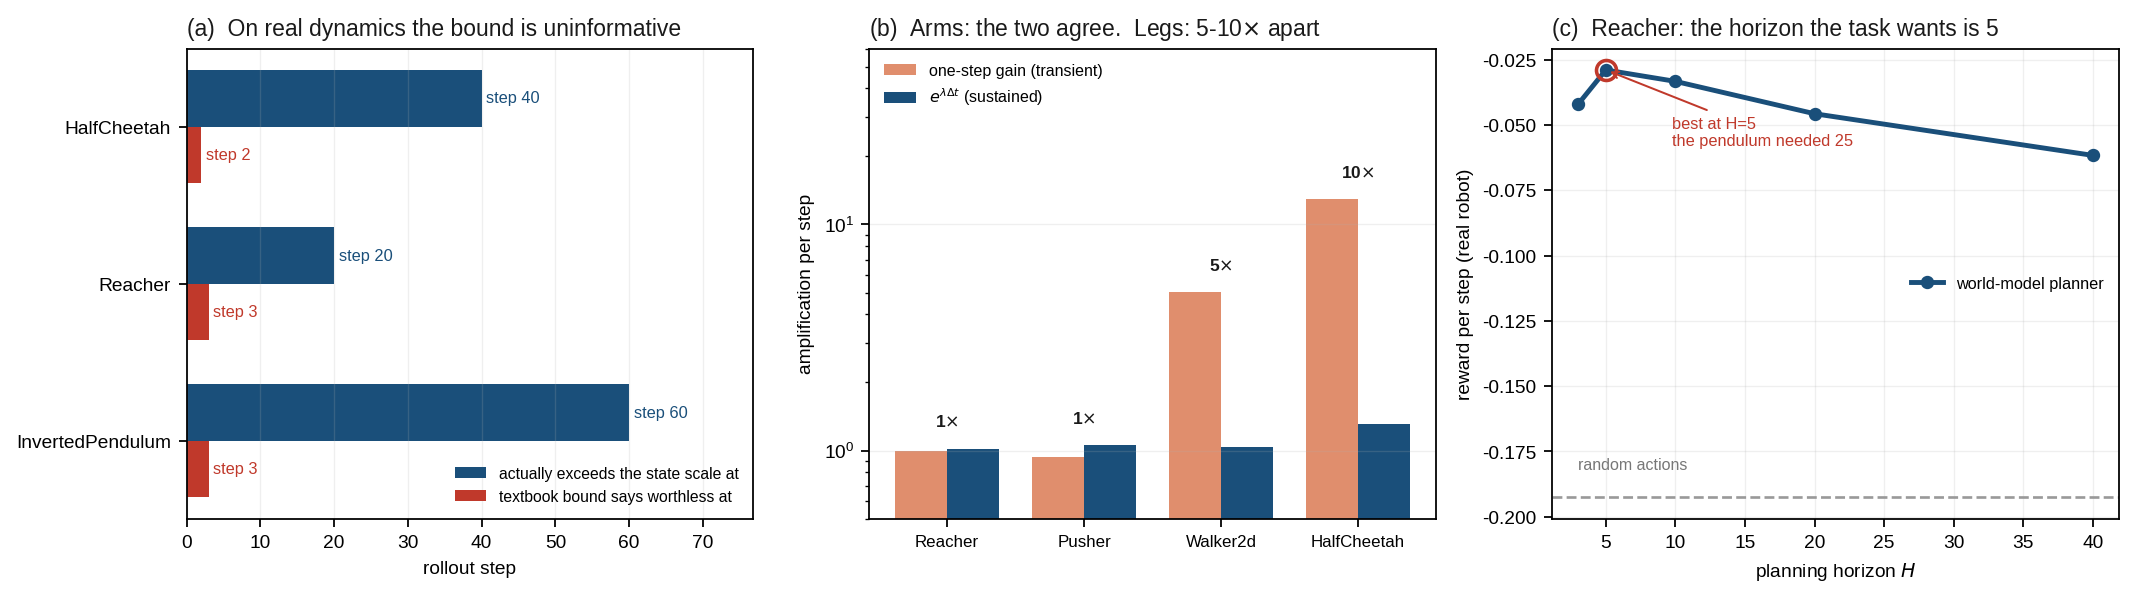
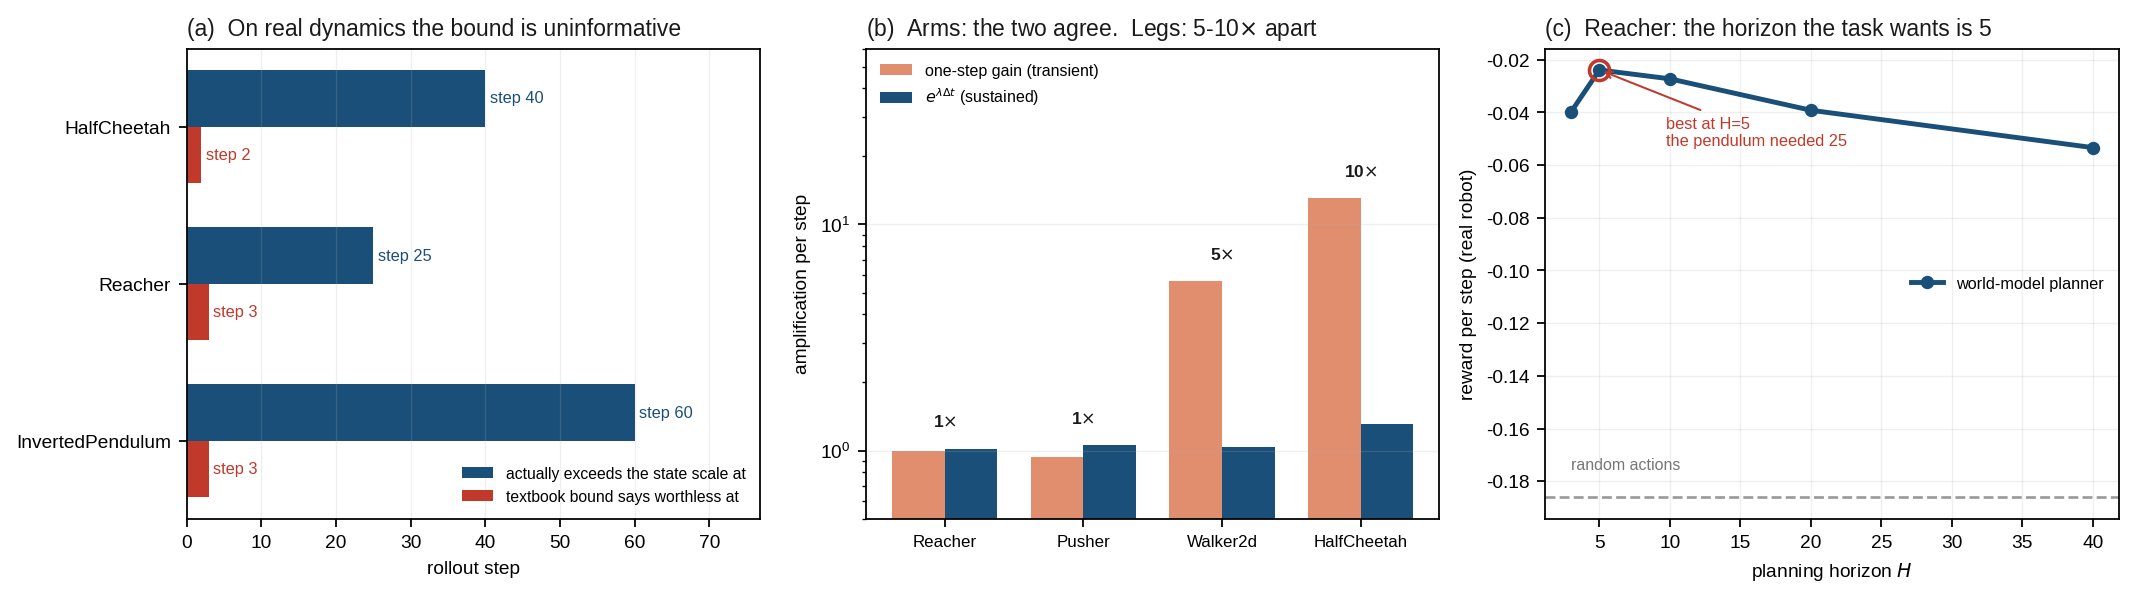
A figure that showed a different run than the text, and the claim that let it
Redrawing real-robots.png from the committed data produced a different picture:
Reacher failing at step 25 rather than 20, the random-action baseline at -0.186
rather than -0.192. The figure in the repository had been drawn from an older
run and never redrawn, and the README's table had drifted with it - it said
Reacher fails at step 21 and HalfCheetah's L_max is 15099, where the run that
produced everything else says 25 and 8887.8.

Nothing checked those numbers. check_claims covered 77 claims and none of them
was this table, which is exactly how a figure and its text end up describing
different experiments in a repository whose entire argument is that they must
not. Four claims added; there are 81 now.

The caveat under that table was also wrong, and measurably so. It said "the
exact step moves by one between runs". Four runs put Reacher's failure step at
18, 21, 22 and 26, and L_max - a maximum over sampled states - between 1403 and
10262 on HalfCheetah. The conclusion survives all of it, which is why the
conclusion is what gets called stable; but rounding an eight-step spread down
to one is the mistake this repository exists to point at. Corrected in the
README and in the lesson that prints it.

Three labels in collapse.png were unreadable: "rank 1 = fully collapsed" was
drawn underneath a bar, and two more had their first letter cut off by the
axis. Found by cropping and enlarging, not by looking at the whole figure.
[…]

diff --git a/check_claims.py b/check_claims.py
@@ -92,13 +92,20 @@ CLAIMS = [
     (5, True, "divergence count is reported",                  r'[0-3] of 3 give a different form'),
     (5, True, "its instability is reported too",               r'Treat it as something to check on your own system'),
     (5, False, "horizon spread carries over",                   r'InvertedPendulum-v5\s+1\s+\d+\s+1[0-9]\.\dx'),
+    # The three numbers the README's bound table quotes. Nothing checked them,
+    # so they sat five steps and six thousand away from the run that produced
+    # them until someone redrew the figure and noticed it disagreed.
+    (5, False, "bound table: InvertedPendulum L_max 14.4",      r'InvertedPendulum-v5\s+14\.4\s+step 3'),
+    (5, False, "bound table: Reacher fails at step 25",         r'Reacher-v5\s+18\.3\s+step 3\s+step 25'),
+    (5, False, "bound table: HalfCheetah L_max 8887.8",         r'HalfCheetah-v5\s+8887\.8\s+step 2'),
+    (5, True,  "the run-to-run spread is stated, not guessed",  r"Reacher's failure step ranged 18 to 26"),
     # ---- Lesson 2 ----
     (2, True, "Lesson 2 states its own scope",                 r'Read section 3 as a statement about the chaotic regime'),
     # ---- Lesson 6 ----
     (6, False, "Reacher arm: ratio 1.0",                        r'Reacher-v5\s+1\.0\d\s+1\.0[12]\d\s+1\.0'),
     (6, False, "HalfCheetah leg: ratio is ~10x",                r'HalfCheetah-v5\s+1[0-9]\.\d\d\s+1\.\d\d\d\s+(?:[89]|1[0-9])\.\d'),
     (6, True, "arms agree, legs do not",                       r'On an arm the two agree and the bound is merely'),
-    (6, False, "random actions score -0.20",                    r'random actions\s+-0\.20\d\d'),
+    (6, False, "random actions score -0.186",                  r'random actions\s+-0\.18\d\d'),
     (6, False, "H=5 is best on Reacher",                        r'world model, H=5\s+-0\.02\d\d'),
     (6, False, "fingertip within 0.001 of target",              r'world model, H=[35]\s+-0\.0\d\d\d\s+0\.00\d\d'),
     (6, False, "longer H costs reward",                         r'world model, H=40\s+-0\.0[3-9]\d\d'),

diff --git a/make_figures.py b/make_figures.py
@@ -189,7 +189,13 @@ if f4.exists():
     b4.bar(x4 - w / 2, std4, w, color=SAND, label="latent std")
     b4.bar(x4 + w / 2, rank4 / LAT, w, color="#7a6f9b", label="effective rank / %d" % LAT)
     b4.axhline(1 / LAT, color="#999", lw=.9, ls=":")
-    b4.text(-.46, 1 / LAT + .045, "rank 1 = fully collapsed", fontsize=7, color="#777", ha="left")
+    # This label sits at the height of the collapse line, which is exactly where
+    # naive's rank bar is - so half of it was drawn underneath the bar and the
+    # word "collapsed" could not be read at all. Keep the position, which is the
+    # only one that reads as belonging to the dotted line, and put it in front.
+    b4.text(-.46, 1 / LAT + .045, "rank 1 = fully collapsed", fontsize=7,
+            color="#777", ha="left", zorder=5,
+            bbox=dict(facecolor="white", edgecolor="none", pad=1.2, alpha=.82))
     b4.set_xticks(x4); b4.set_xticklabels(nm4); b4.set_ylabel("detector value")
     b4.set_title("(b)  Two detectors, opposite verdicts", color=INK, loc="left")
     b4.legend(fontsize=7.3, frameon=False, loc="upper left"); b4.grid(alpha=.2, lw=.6, axis="y")
@@ -205,10 +211,10 @@ if f4.exists():
     c4 = A4[2]
     c4.axhspan(float(fl.min()), float(fl.max()), color="#999", alpha=.2, lw=0)
     c4.axhline(float(fl.mean()), color="#777", lw=1.2, ls="--")
-    c4.text(-.42, float(fl.mean()) + .022, "untrained encoder (5 seeds)", fontsize=7,
+    c4.text(-.34, float(fl.mean()) + .022, "untrained encoder (5 seeds)", fontsize=7,
             color="#555", ha="left")
     c4.axhline(ce, color=INK, lw=1.2, ls="-.")
-    c4.text(-.42, ce + .022, "raw observation (ceiling)", fontsize=7, color=INK, ha="left")
+    c4.text(-.34, ce + .022, "raw observation (ceiling)", fontsize=7, color=INK, ha="left")
     c4.bar(x4, r24, .55, color=cols)
     for xi, v in zip(x4, r24):
         c4.text(xi, v + .02, "%.3f" % v, ha="center", fontsize=7.6)

diff --git a/lessons/05_real_environments.py b/lessons/05_real_environments.py
@@ -115,8 +115,18 @@ kb_max = max(r["k_bound"] for r in rows)
 print("    Every one of them writes the rollout off within %d steps of the start," % kb_max)
 print("    on systems that stay usable for %d to %d. The bound is not conservative"
       % (min(r["k_real"] for r in rows), max(r["k_real"] for r in rows)))
-print("    here, it is uninformative. (The exact step moves by one between runs;")
-print("    what does not move is that it is single digits against tens.)")
+print("    here, it is uninformative.")
+# "The exact step moves by one between runs" is what this used to say, and it
+# was measured wrong. Over four runs Reacher's failure step came out 18, 21, 22
+# and 26 - eight steps apart, not one - and L_max, being a maximum over sampled
+# states, swung from 1403 to 10262 on HalfCheetah. Neither of those changes the
+# conclusion, which is why the conclusion is what gets stated as stable; but a
+# repository about not overstating what a run supports does not get to round
+# its own spread down to "one".
+print("    Read the L_max column as one draw, not a constant: it is a maximum over")
+print("    sampled states, and across four runs it moved by 7x on HalfCheetah while")
+print("    Reacher's failure step ranged 18 to 26. What does not move between runs")
+print("    is that the bound is single digits against tens.")
 
 # ═══ 2. Which shape does the error curve take? ═════════════════════════════
 print("\n[2] Lesson 2 could not tell the shape of its pendulum curve apart at all,")

diff --git a/README.zh-CN.md b/README.zh-CN.md
@@ -1,6 +1,6 @@
 # worldmodel-from-scratch
 
-[![test](https://github.com/GuoCheng24/worldmodel-from-scratch/actions/workflows/test.yml/badge.svg)](https://github.com/GuoCheng24/worldmodel-from-scratch/actions/workflows/test.yml) [![claims](https://img.shields.io/badge/README%20claims-77%2F77%20verified-2e7d5b)](check_claims.py) [![python](https://img.shields.io/badge/python-3.9%2B-blue)](https://www.python.org/) [![license](https://img.shields.io/badge/license-MIT-green)](LICENSE)
+[![test](https://github.com/GuoCheng24/worldmodel-from-scratch/actions/workflows/test.yml/badge.svg)](https://github.com/GuoCheng24/worldmodel-from-scratch/actions/workflows/test.yml) [![claims](https://img.shields.io/badge/README%20claims-81%2F81%20verified-2e7d5b)](check_claims.py) [![python](https://img.shields.io/badge/python-3.9%2B-blue)](https://www.python.org/) [![license](https://img.shields.io/badge/license-MIT-green)](LICENSE)
 
 **一个下午写出一个世界模型 —— 然后搞清楚它能信到第几步。**
 
@@ -194,11 +194,15 @@ python make_visuals.py                             # 重画上面的动图
 MUJOCO_GL=egl python make_imagination.py           # 40 秒, 生成开头那张动图
 ```
 
+<sub>这些秒数是在**一块 GPU** 上测的。第 1–4 课除了上面那三个包什么都不需要,纯 CPU 也能跑,
+但代价是真实的、而且并不均匀:8 线程 CPU 实测,第 1、4 课慢 3 倍,第 3 课 6 倍,第 2 课 10 倍,
+四课合计约 **19 分钟**而不是 3 分钟。</sub>
+
 下面引用的每一个数字都由这两个脚本产生。**不用信,可以直接查:**
 
 ```bash
 for f in lessons/*.py; do python "$f" > "/tmp/$(basename $f .py).txt"; done
-python check_claims.py /tmp/0*.txt        # 77/77 条 README 断言有输出支撑
+python check_claims.py /tmp/0*.txt        # 81/81 条 README 断言有输出支撑
 ```
 
 没有 `--config`,没有下载,没有环境变量。`torch` 能 import 就能跑。
@@ -401,12 +405,15 @@ export MUJOCO_GL=egl        # 必须在 import mujoco 或 gymnasium 之前
 
 | 环境 | `L_max` | 界宣布报废于 | 实际何时才超标 |
 |---|---|---|---|
-| InvertedPendulum | 9.2 | **第 3 步** | 到第 60 步都没事 |
-| Reacher | 18.3 | **第 3 步** | 第 21 步 |
-| HalfCheetah | 15099 | **第 2 步** | 到第 40 步都没事 |
+| InvertedPendulum | 14.4 | **第 3 步** | 到第 60 步都没事 |
+| Reacher | 18.3 | **第 3 步** | 第 25 步 |
+| HalfCheetah | 8887.8 | **第 2 步** | 到第 40 步都没事 |
 
-<sub>具体是第几步在不同运行间会差 1。不变的是:界用个位数谈论一个能撑几十步的系统,
-所以课程打印的是实测区间而不是这几个数。</sub>
+<sub>这是**一次**运行,而且 <code>L_max</code> 要当成一次抽样而非常数看——它是对采样状态取的最大值。
+四次运行里它在 HalfCheetah 上从 1403 变到 10262、在 InvertedPendulum 上从 9.2 变到 23.2,
+Reacher 的失效步数则是 18、21、22、26。这张表原先写的是"具体第几步在不同运行间会差 1"——
+那是**测错了**,而且没有任何检查管它,所以表里的数字已经和产出它的那次运行差了五步和六千。
+现在两处都纳入检查了。真正不变的是中间一列对右边一列:个位数 vs 几十步。</sub>
 
 **什么活下来了,什么需要加限定。** 可用步数的跨度到处都在(1.6× 到 19×)。
 中位/均值分歧在不同运行里是 **0 或 1 of 3**——这个不稳定本身就是结论:
@@ -450,11 +457,12 @@ export MUJOCO_GL=egl        # 必须在 import mujoco 或 gymnasium 之前
 
 | 规划器 | 每步回报 | 终态指尖-目标距离 |
 |---|---|---|
-| 随机动作 | −0.2045 | — |
-| 世界模型 H=3 | −0.0271 | 0.0005 |
-| **世界模型 H=5** | **−0.0207** | 0.0009 |
-| 世界模型 H=20 | −0.0341 | 0.0076 |
-| 世界模型 H=40 | −0.0451 | 0.0243 |
+| 随机动作 | −0.1861 | — |
+| 世界模型 H=3 | −0.0397 | 0.0004 |
+| **世界模型 H=5** | **−0.0239** | 0.0007 |
+| 世界模型 H=10 | −0.0272 | 0.0028 |
+| 世界模型 H=20 | −0.0392 | 0.0100 |
+| 世界模型 H=40 | −0.0533 | 0.0239 |
 
 **这里任务要的步长是 5,而摆起任务要 25。** 两个都是任务给的答案:
 摆起必须先蓄能很多步才会有好事发生,够物体不需要——贪心下降本来就是对的,
@@ -465,11 +473,11 @@ export MUJOCO_GL=egl        # 必须在 import mujoco 或 gymnasium 之前
 
 | H | 状态误差 | 秩相关 | 后悔值 |
 |---|---|---|---|
-| 5 | 0.344 | 0.998 | 0.0000 |
-| 20 | 4.51 | 0.958 | 0.0000 |
-| 40 | 12.13 | 0.647 | 1.0522 |
+| 5 | 0.2483 | 0.998 | 0.0000 |
+| 20 | 2.0501 | 0.990 | 0.0000 |
+| 40 | 4.4333 | 0.905 | 0.1981 |
 
-H 从 5 到 40 状态误差涨了 30 多倍,而排序还在,**规划器直到排序垮掉才开始付代价**。
+H 从 5 到 40 状态误差涨了近 18 倍,而排序还在,**规划器直到排序垮掉才开始付代价**。
 
 <p align="center">
   <img src="figures/real-robots.png" width="100%" alt="三个面板:教科书上界判 rollout 无用的步数 vs 实际失效的步数、各机器人的单步放大 vs 持续放大、回报随规划步长的变化">
@@ -532,7 +540,7 @@ H 从 5 到 40 状态误差涨了 30 多倍,而排序还在,**规划器直到排
 | 第 3–6 课 | ✗ 需 GPU 或 MuJoCo | ✓ |
 
 ```bash
-python check_claims.py /tmp/0*.txt                 # 77/77, 对着产生本文档的那次运行
+python check_claims.py /tmp/0*.txt                 # 81/81, 对着产生本文档的那次运行
 python check_claims.py --stable-only /tmp/0*.txt   # 应当在任何地方都成立的那部分
 ```
 

diff --git a/README.md b/README.md
@@ -1,6 +1,6 @@
 # worldmodel-from-scratch
 
-[![test](https://github.com/GuoCheng24/worldmodel-from-scratch/actions/workflows/test.yml/badge.svg)](https://github.com/GuoCheng24/worldmodel-from-scratch/actions/workflows/test.yml) [![claims](https://img.shields.io/badge/README%20claims-77%2F77%20verified-2e7d5b)](check_claims.py) [![python](https://img.shields.io/badge/python-3.9%2B-blue)](https://www.python.org/) [![license](https://img.shields.io/badge/license-MIT-green)](LICENSE)
+[![test](https://github.com/GuoCheng24/worldmodel-from-scratch/actions/workflows/test.yml/badge.svg)](https://github.com/GuoCheng24/worldmodel-from-scratch/actions/workflows/test.yml) [![claims](https://img.shields.io/badge/README%20claims-81%2F81%20verified-2e7d5b)](check_claims.py) [![python](https://img.shields.io/badge/python-3.9%2B-blue)](https://www.python.org/) [![license](https://img.shields.io/badge/license-MIT-green)](LICENSE)
 
 **Build a world model in an afternoon — then find out how far you can trust it.**
 
@@ -225,12 +225,17 @@ python make_visuals.py                             # redraws the animations
 MUJOCO_GL=egl python make_imagination.py           # 40 s, the animation at the top
 ```
 
+<sub>Those times are on one GPU. Lessons 1-4 need nothing beyond the three packages
+above and run on a CPU too, at a cost that is real and not uniform: measured on
+eight CPU threads, Lessons 1 and 4 take 3x longer, Lesson 3 6x and Lesson 2 10x,
+so the four together are about nineteen minutes rather than three.</sub>
+
 Every number quoted below is produced by those two scripts. To check that
 claim rather than take it:
 
 ```bash
 for f in lessons/*.py; do python "$f" > "/tmp/$(basename $f .py).txt"; done
-python check_claims.py /tmp/0*.txt        # 77/77 README claims backed
+python check_claims.py /tmp/0*.txt        # 81/81 README claims backed
 ```
 
 No `--config`, no download, no environment variables. If `torch` imports, it runs.
@@ -477,13 +482,18 @@ finished:
 
 | environment | `L_max` | bound says worthless at | actually is at |
 |---|---|---|---|
-| InvertedPendulum | 9.2 | **step 3** | still fine at 60 |
-| Reacher | 18.3 | **step 3** | step 21 |
-| HalfCheetah | 15099 | **step 2** | still fine at 40 |
+| InvertedPendulum | 14.4 | **step 3** | still fine at 60 |
+| Reacher | 18.3 | **step 3** | step 25 |
+| HalfCheetah | 8887.8 | **step 2** | still fine at 40 |
 
-<sub>The exact step moves by one between runs. What does not move is that the
-bound speaks in single digits about systems that stay usable for tens of steps,
-so the lesson prints the measured range rather than these numbers.</sub>
+<sub>One run, and read <code>L_max</code> as one draw rather than a constant: it is a
+maximum over sampled states. Across four runs it moved from 1403 to 10262 on
+HalfCheetah and from 9.2 to 23.2 on InvertedPendulum, while Reacher's failure step
+came out 18, 21, 22 and 26. This table used to say the step "moves by one between
+runs" — that was measured wrong, and nothing checked it, which is why the numbers
+here had drifted five steps and 6000 from the run that produced them. Both are
+checked now. What does not move is the middle column against the right one: single
+digits against tens.</sub>
 
 **What survives, and what needed a qualification.** The horizon spread carried
 over everywhere (1.6x to 19x). The median-versus-mean divergence appeared in 0
@@ -535,11 +545,12 @@ control and a reader who has asked for reduced motion sees only the first.</sub>
 
 | planner | reward/step | final fingertip-to-target |
 |---|---|---|
-| random actions | −0.2045 | — |
-| world model, H=3 | −0.0271 | 0.0005 |
-| **world model, H=5** | **−0.0207** | 0.0009 |
-| world model, H=20 | −0.0341 | 0.0076 |
-| world model, H=40 | −0.0451 | 0.0243 |
+| random actions | −0.1861 | — |
+| world model, H=3 | −0.0397 | 0.0004 |
+| **world model, H=5** | **−0.0239** | 0.0007 |
+| world model, H=10 | −0.0272 | 0.0028 |
+| world model, H=20 | −0.0392 | 0.0100 |
+| world model, H=40 | −0.0533 | 0.0239 |
 
 **The horizon the task wants is 5 here, where the pendulum swing-up needed 25.**
 Both are the task's answer: a swing-up must pump energy over many steps before
@@ -552,11 +563,11 @@ And the quantity Lesson 3 identified, on the real arm:
 
 | H | state error | rank correlation | regret |
 |---|---|---|---|
-| 5 | 0.344 | 0.998 | 0.0000 |
-| 20 | 4.51 | 0.958 | 0.0000 |
-| 40 | 12.13 | 0.647 | 1.0522 |
+| 5 | 0.2483 | 0.998 | 0.0000 |
+| 20 | 2.0501 | 0.990 | 0.0000 |
+| 40 | 4.4333 | 0.905 | 0.1981 |
 
-The state drifts by more than 30x between H=5 and H=40 while the ranking holds,
+The state drifts by nearly 18x between H=5 and H=40 while the ranking holds,
 and the planner pays nothing until the ranking goes.
 
 <p align="center">
@@ -639,7 +650,7 @@ Every claim in `check_claims.py` is marked **stable** or not:
 | Lessons 3–6 | ✗ wants a GPU or MuJoCo | ✓ |
 
 ```bash
-python check_claims.py /tmp/0*.txt                 # 77/77 against the recorded run
+python check_claims.py /tmp/0*.txt                 # 81/81 against the recorded run
 python check_claims.py --stable-only /tmp/0*.txt   # what should hold anywhere
 ```
 
